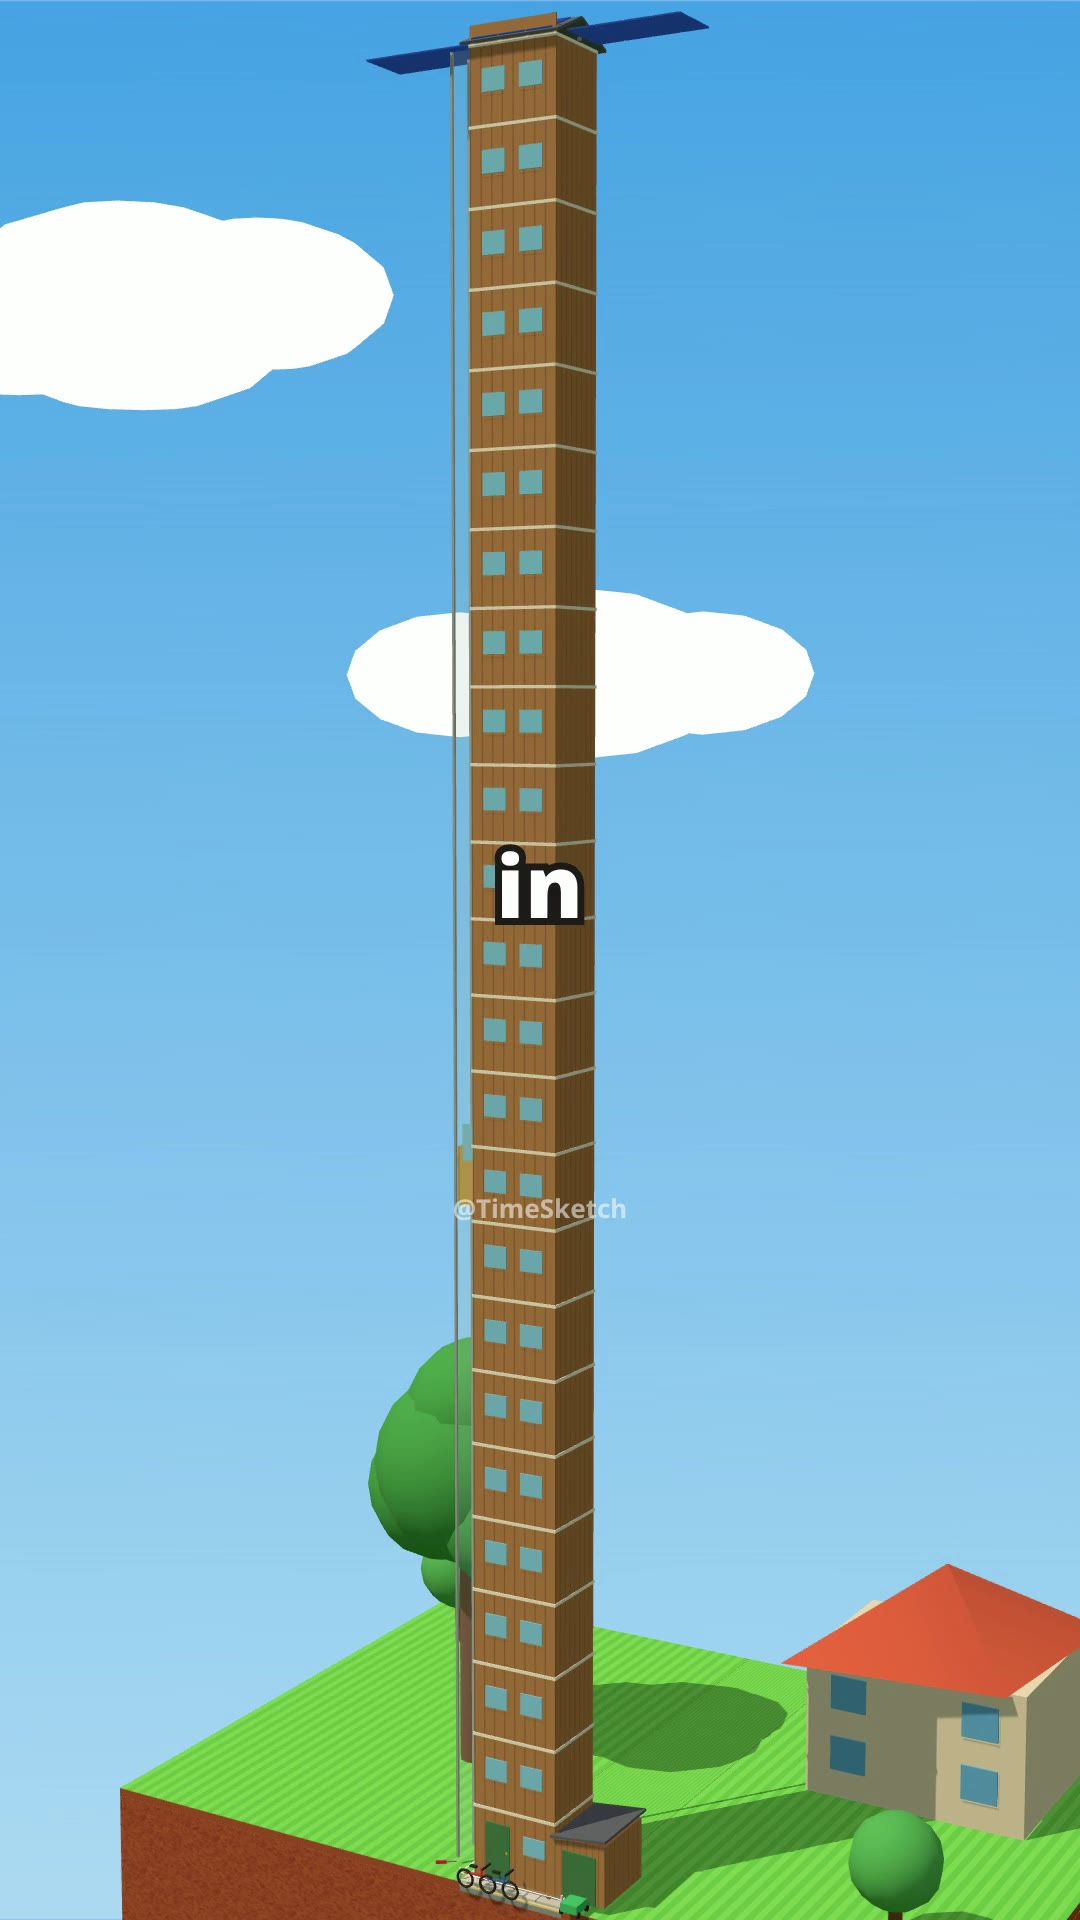
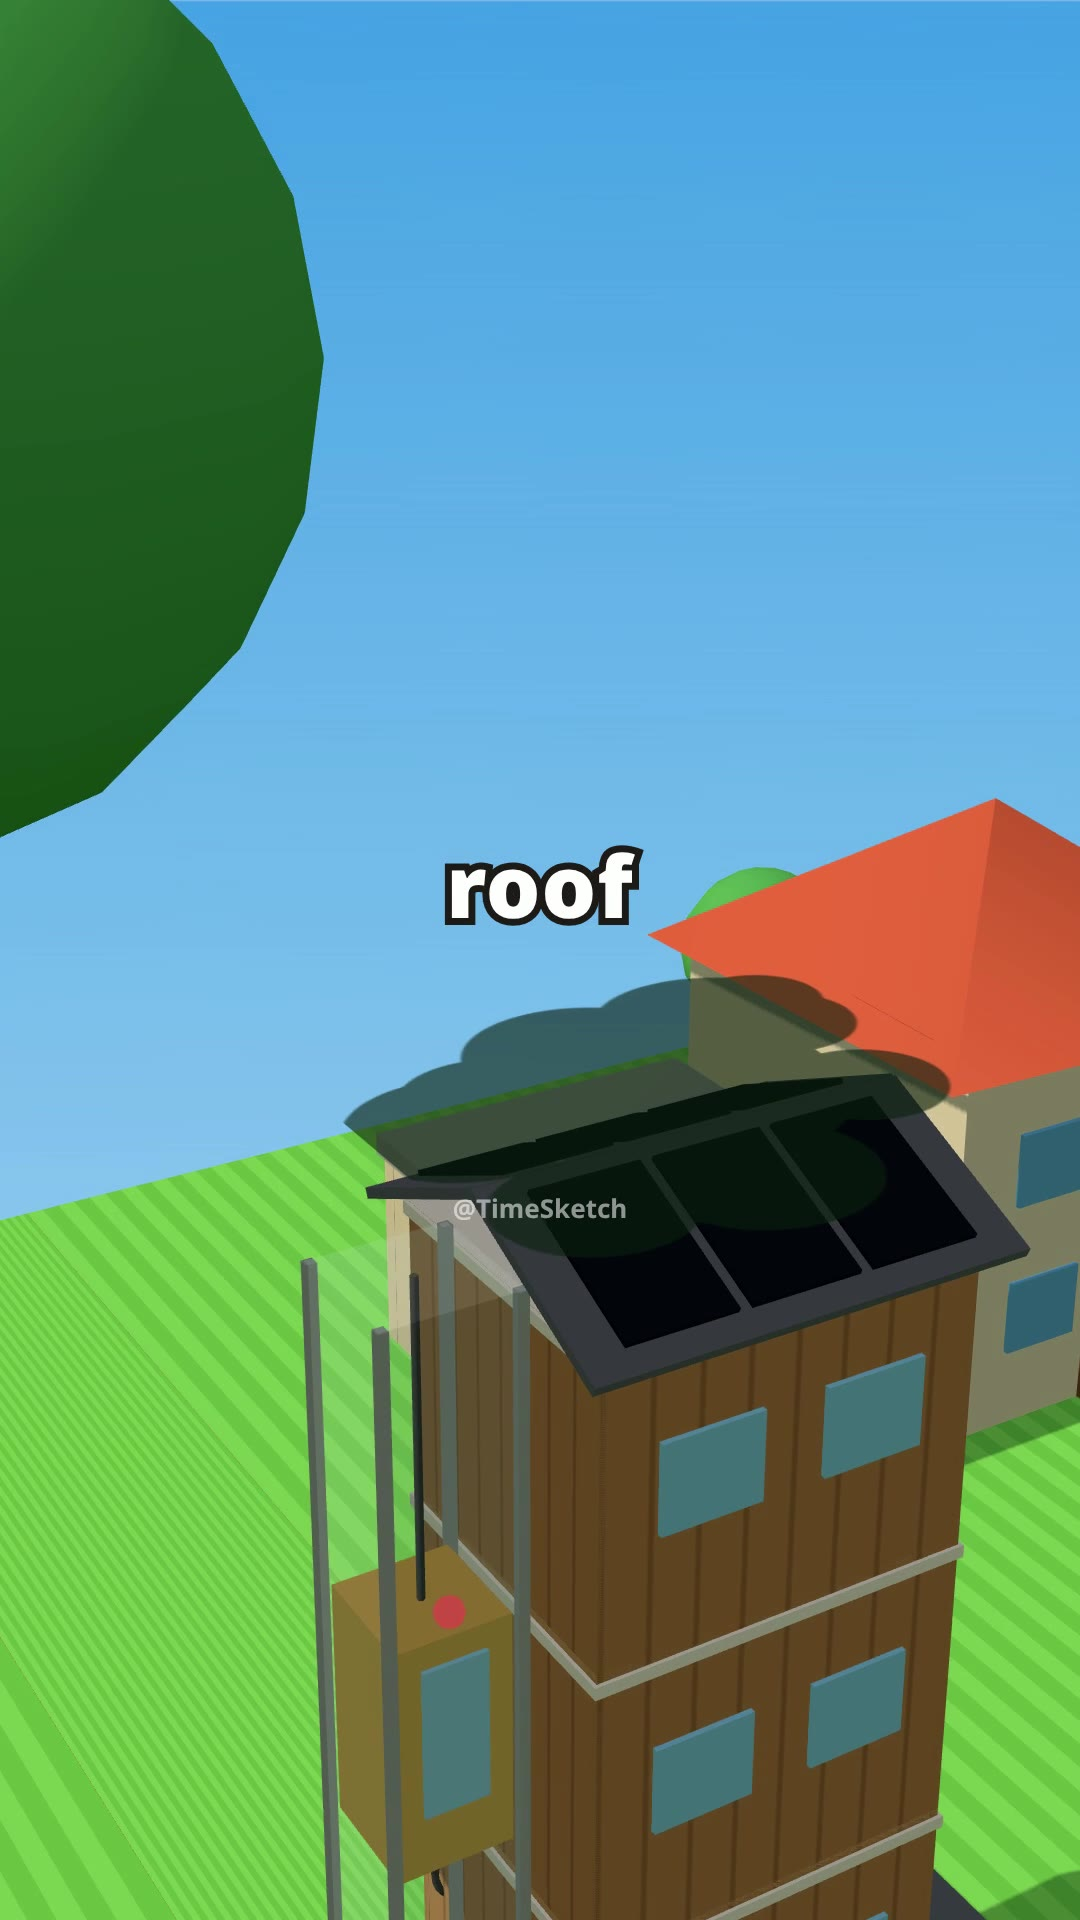
Shed v2 rendered (74 s), packaged; pacing rule for 3D
Claude-Session: https://claude.ai/code/session_01781pAoC31jwJRVjELkZWSA

diff --git a/CLAUDE.md b/CLAUDE.md
@@ -76,6 +76,8 @@ Same style, format and QA as every other Short. What changes:
   no title card. Only the opening build is fact; say in the description that the rest is a joke.
 - **Continuity (from #23):** each fix must be caused by the last one, be physically attached to it, and stay on screen to the end.
   Nothing disappears. The final shot must contain every earlier step. Rakesh approves the step chain before any build.
+- **Pacing (from #24):** every step needs a spoken reason; use longer pauses (`GAP_FULL=0.75 GAP_COMMA=0.2` for the voice),
+  ~3 s per build step. Explain the starting need ('why a shed at all') before the build.
 - Our own world, models and stories. Never copy the reference account's scenes.
 
 ## Detail check (look at full-size frames from final.mp4, every beat, before handing over)
@@ -152,7 +154,7 @@ python3 -m timesketch.publish $E --make --dry-run  # then without --dry-run to q
 | 21 | QR Codes Came From a Board Game (1994) (12 Nov 17:00) | No host, ironic everyday origin, human cast | 29.0 s | (fill in after 48 h) | frame 1 is the twist itself (a Go board laid out as a QR code being scanned); stones-to-squares morph as the 'how' |
 | 22 | Why Outlook Went Down Worldwide (12 Nov) (14 Nov 17:00) | IN THE NEWS: what happened -> why (cause explainer) -> one history line | 28.2 s | (fill in after 48 h) | first current-affairs video; Rakesh: make it look like the product and explain WHY it happened (server health-check domino effect) |
 | 23 | You Wanted a Fence. You Got a Stadium. | 3D LONG FORM TEST: one continuous camera, one word on screen, real build -> absurd escalation | 49.4 s | NOT UPLOADED - Rakesh: no continuity (the dome vanished when the stadium appeared; steps did not add up) | first 3D video; new engine `lib3d/`. Lesson: every step must cause the next and stay on screen |
-| 24 | You Wanted a Shed. It's Now 58 Metres Tall. (15 Nov 17:00, pending Rakesh's OK) | 3D LONG FORM: one structure that only grows, every step caused by the last and kept on screen | 48.5 s | (fill in after 48 h) | continuity fix after #23 |
+| 24 | Your Car Took the Garage. So You Built a Shed. (15 Nov 17:00, pending Rakesh's OK) | 3D LONG FORM v2: a reason for every floor (mower, bikes, Christmas, camping, lift, solar, tree shade, +2 floors) | 74.3 s | (fill in after 48 h) | Rakesh: say why the shed exists, slow down, better props, show the shade and why it grows |
 
 Lessons: name anything the viewer may not know (#21: 'playing Go' confused Rakesh -> 'a board game called Go' + on-screen label).
 #18 treadmill confirmed the #7 shape: 54% stayed (typical 38-48%), 91% avg viewed, +5 subs in 9 h. Ironic origin of an

diff --git a/episodes/shed-tower/upload_pack.md b/episodes/shed-tower/upload_pack.md
@@ -4,14 +4,14 @@ Open studio.youtube.com (Time Sketch channel) -> Create -> Upload videos -> pick
   final.mp4 (sent with this pack; in the repo: episodes/shed-tower/final.mp4)
 
 ## Title
-You Wanted a Shed. It's Now 58 Metres Tall.
+Your Car Took the Garage. So You Built a Shed.
 
 ## Description
-You only wanted a garden shed.
+Your car takes up the whole garage, so the mower, the bikes and the tools need a shed.
 
-The first part is how a shed base really goes in: never straight on grass. Mark it out, dig out the turf, lay compacted hardcore, then sand, then level paving slabs. Treated timber bearers lift the floor off the slabs so air can flow underneath and the damp stays out.
+The first part is how a shed base really goes in: never straight on grass. Mark it out, lift the turf, lay compacted hardcore, then sand, then level paving slabs. Treated timber bearers lift the floor off the slabs so air can flow underneath and the damp stays out.
 
-Everything after the lawnmower is a joke. Please do not build a 58-metre shed.
+Everything after the lawnmower is a joke. Please do not build a six-storey shed.
 
 Shed base sources:
 - Homebuilding & Renovating, How to build a shed base: https://homebuilding.co.uk/advice/how-to-build-a-shed-base
